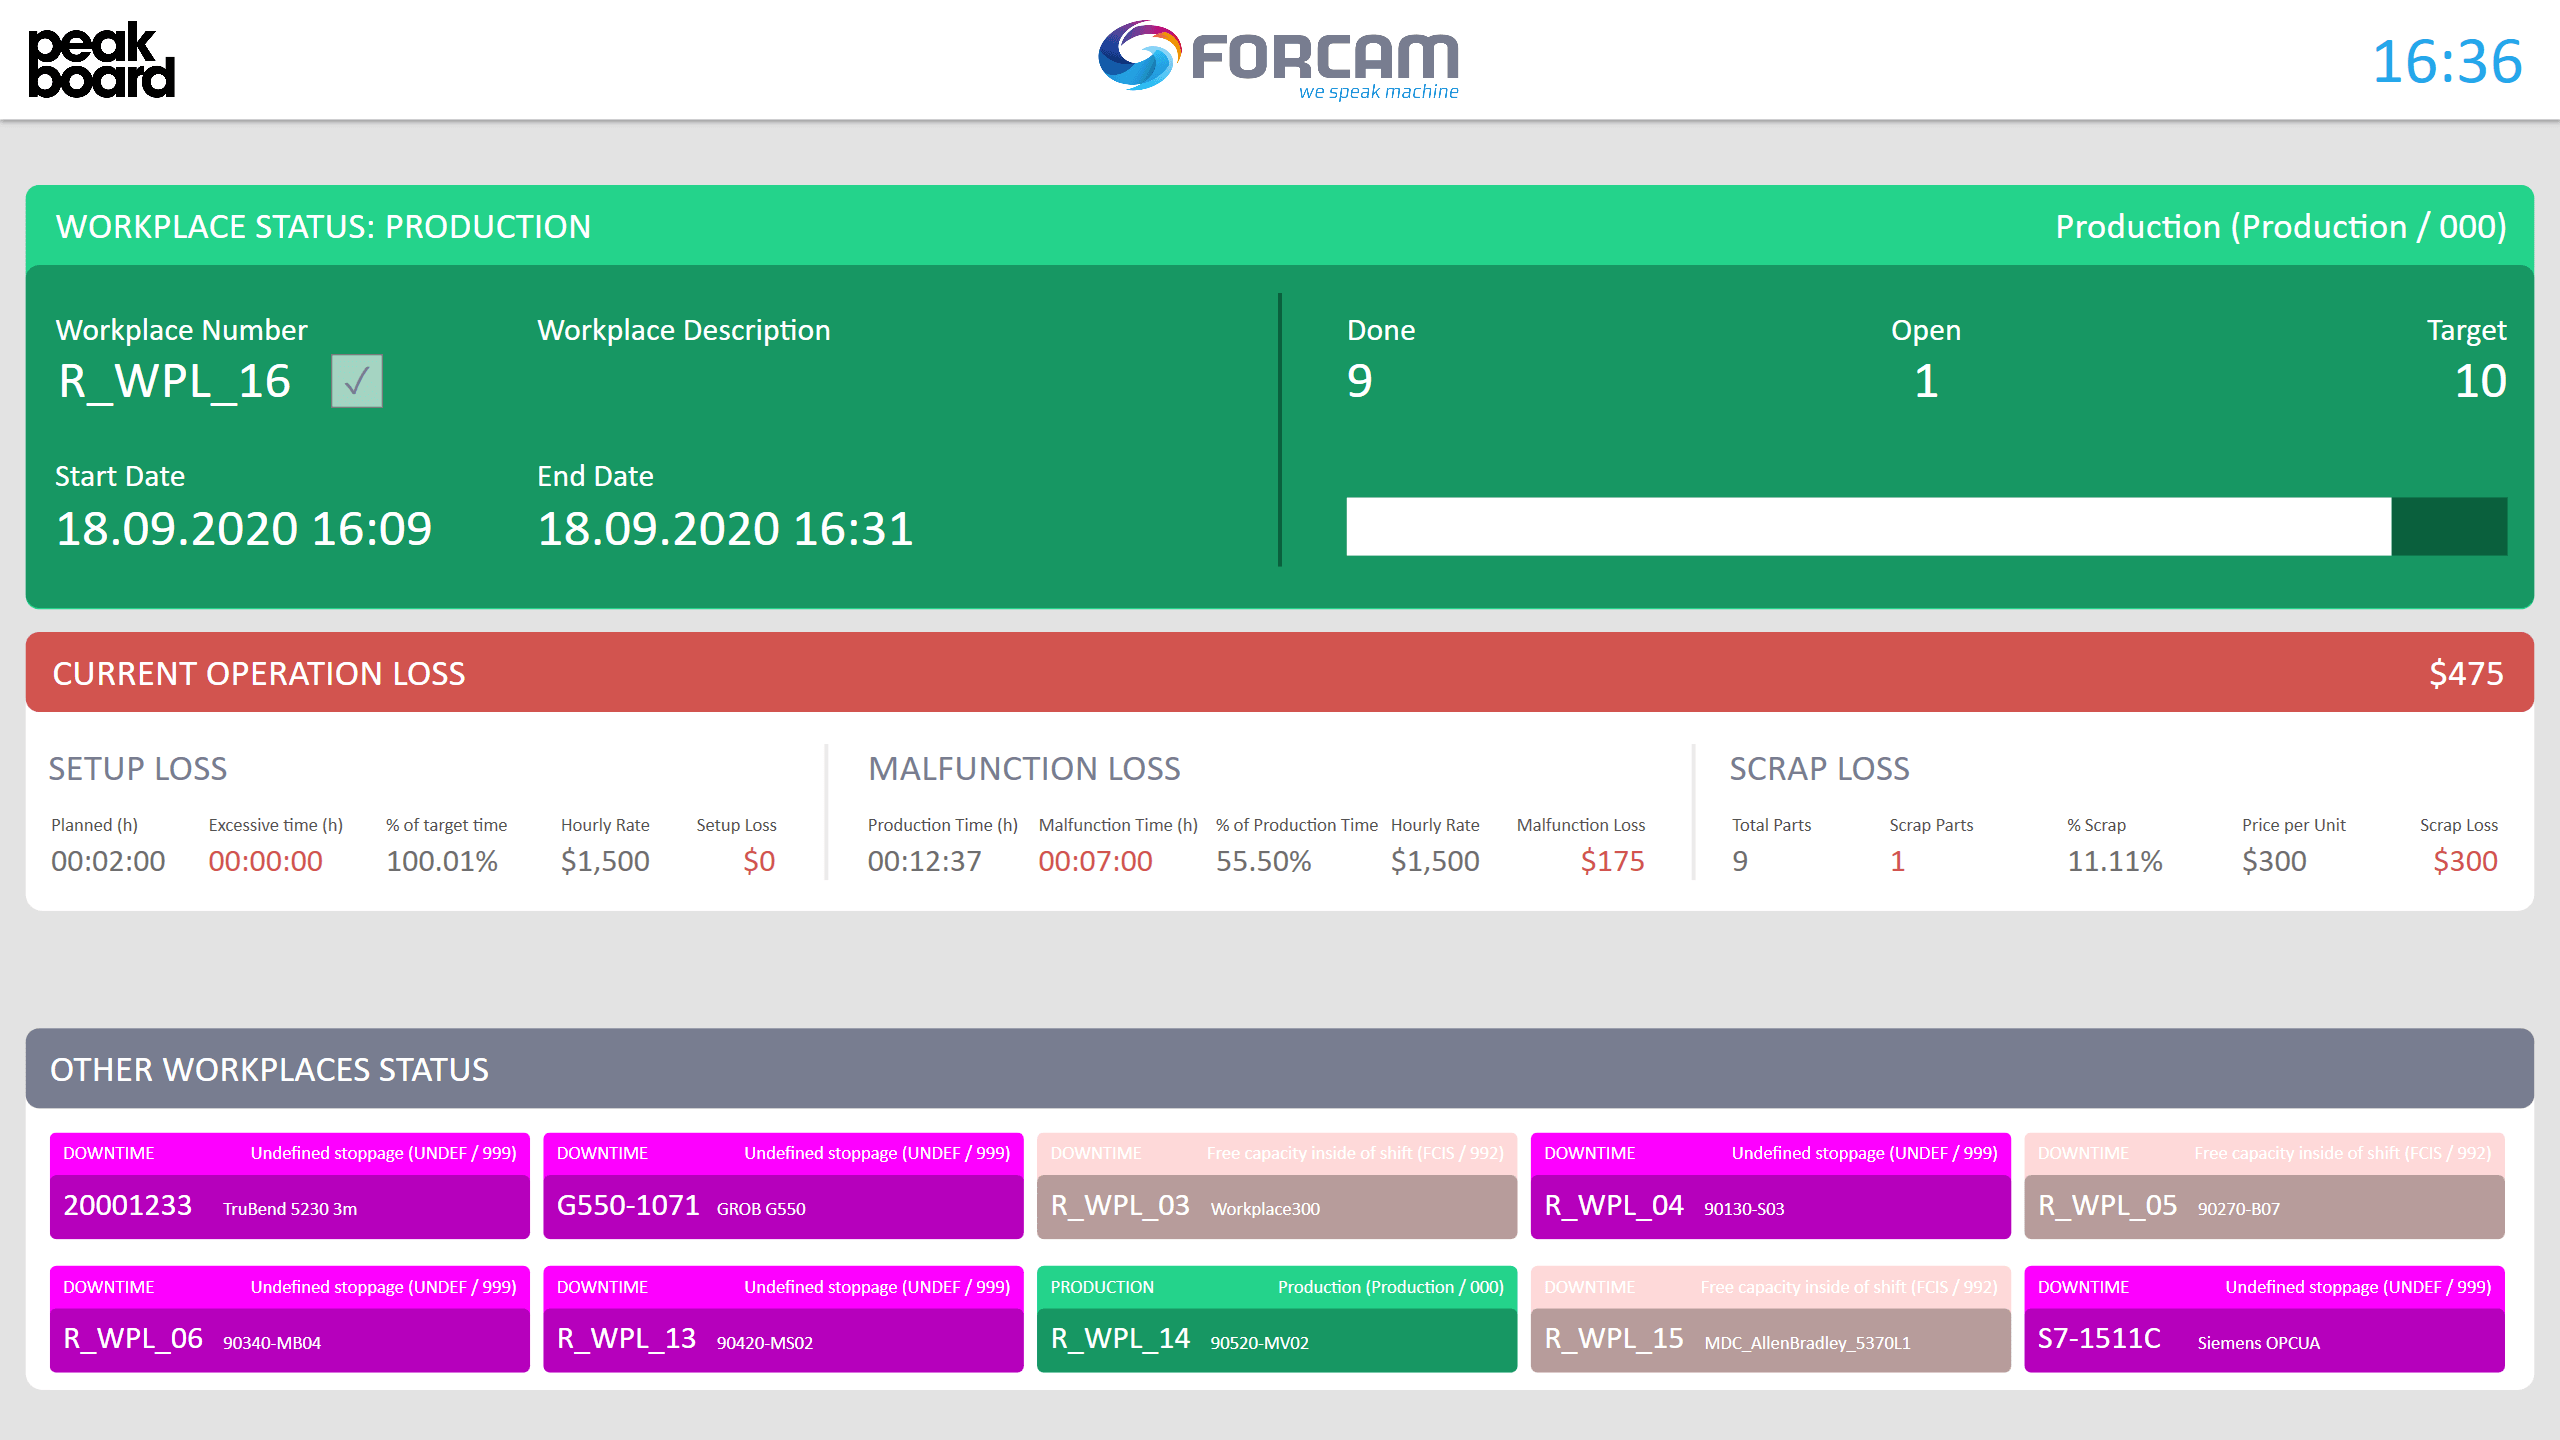
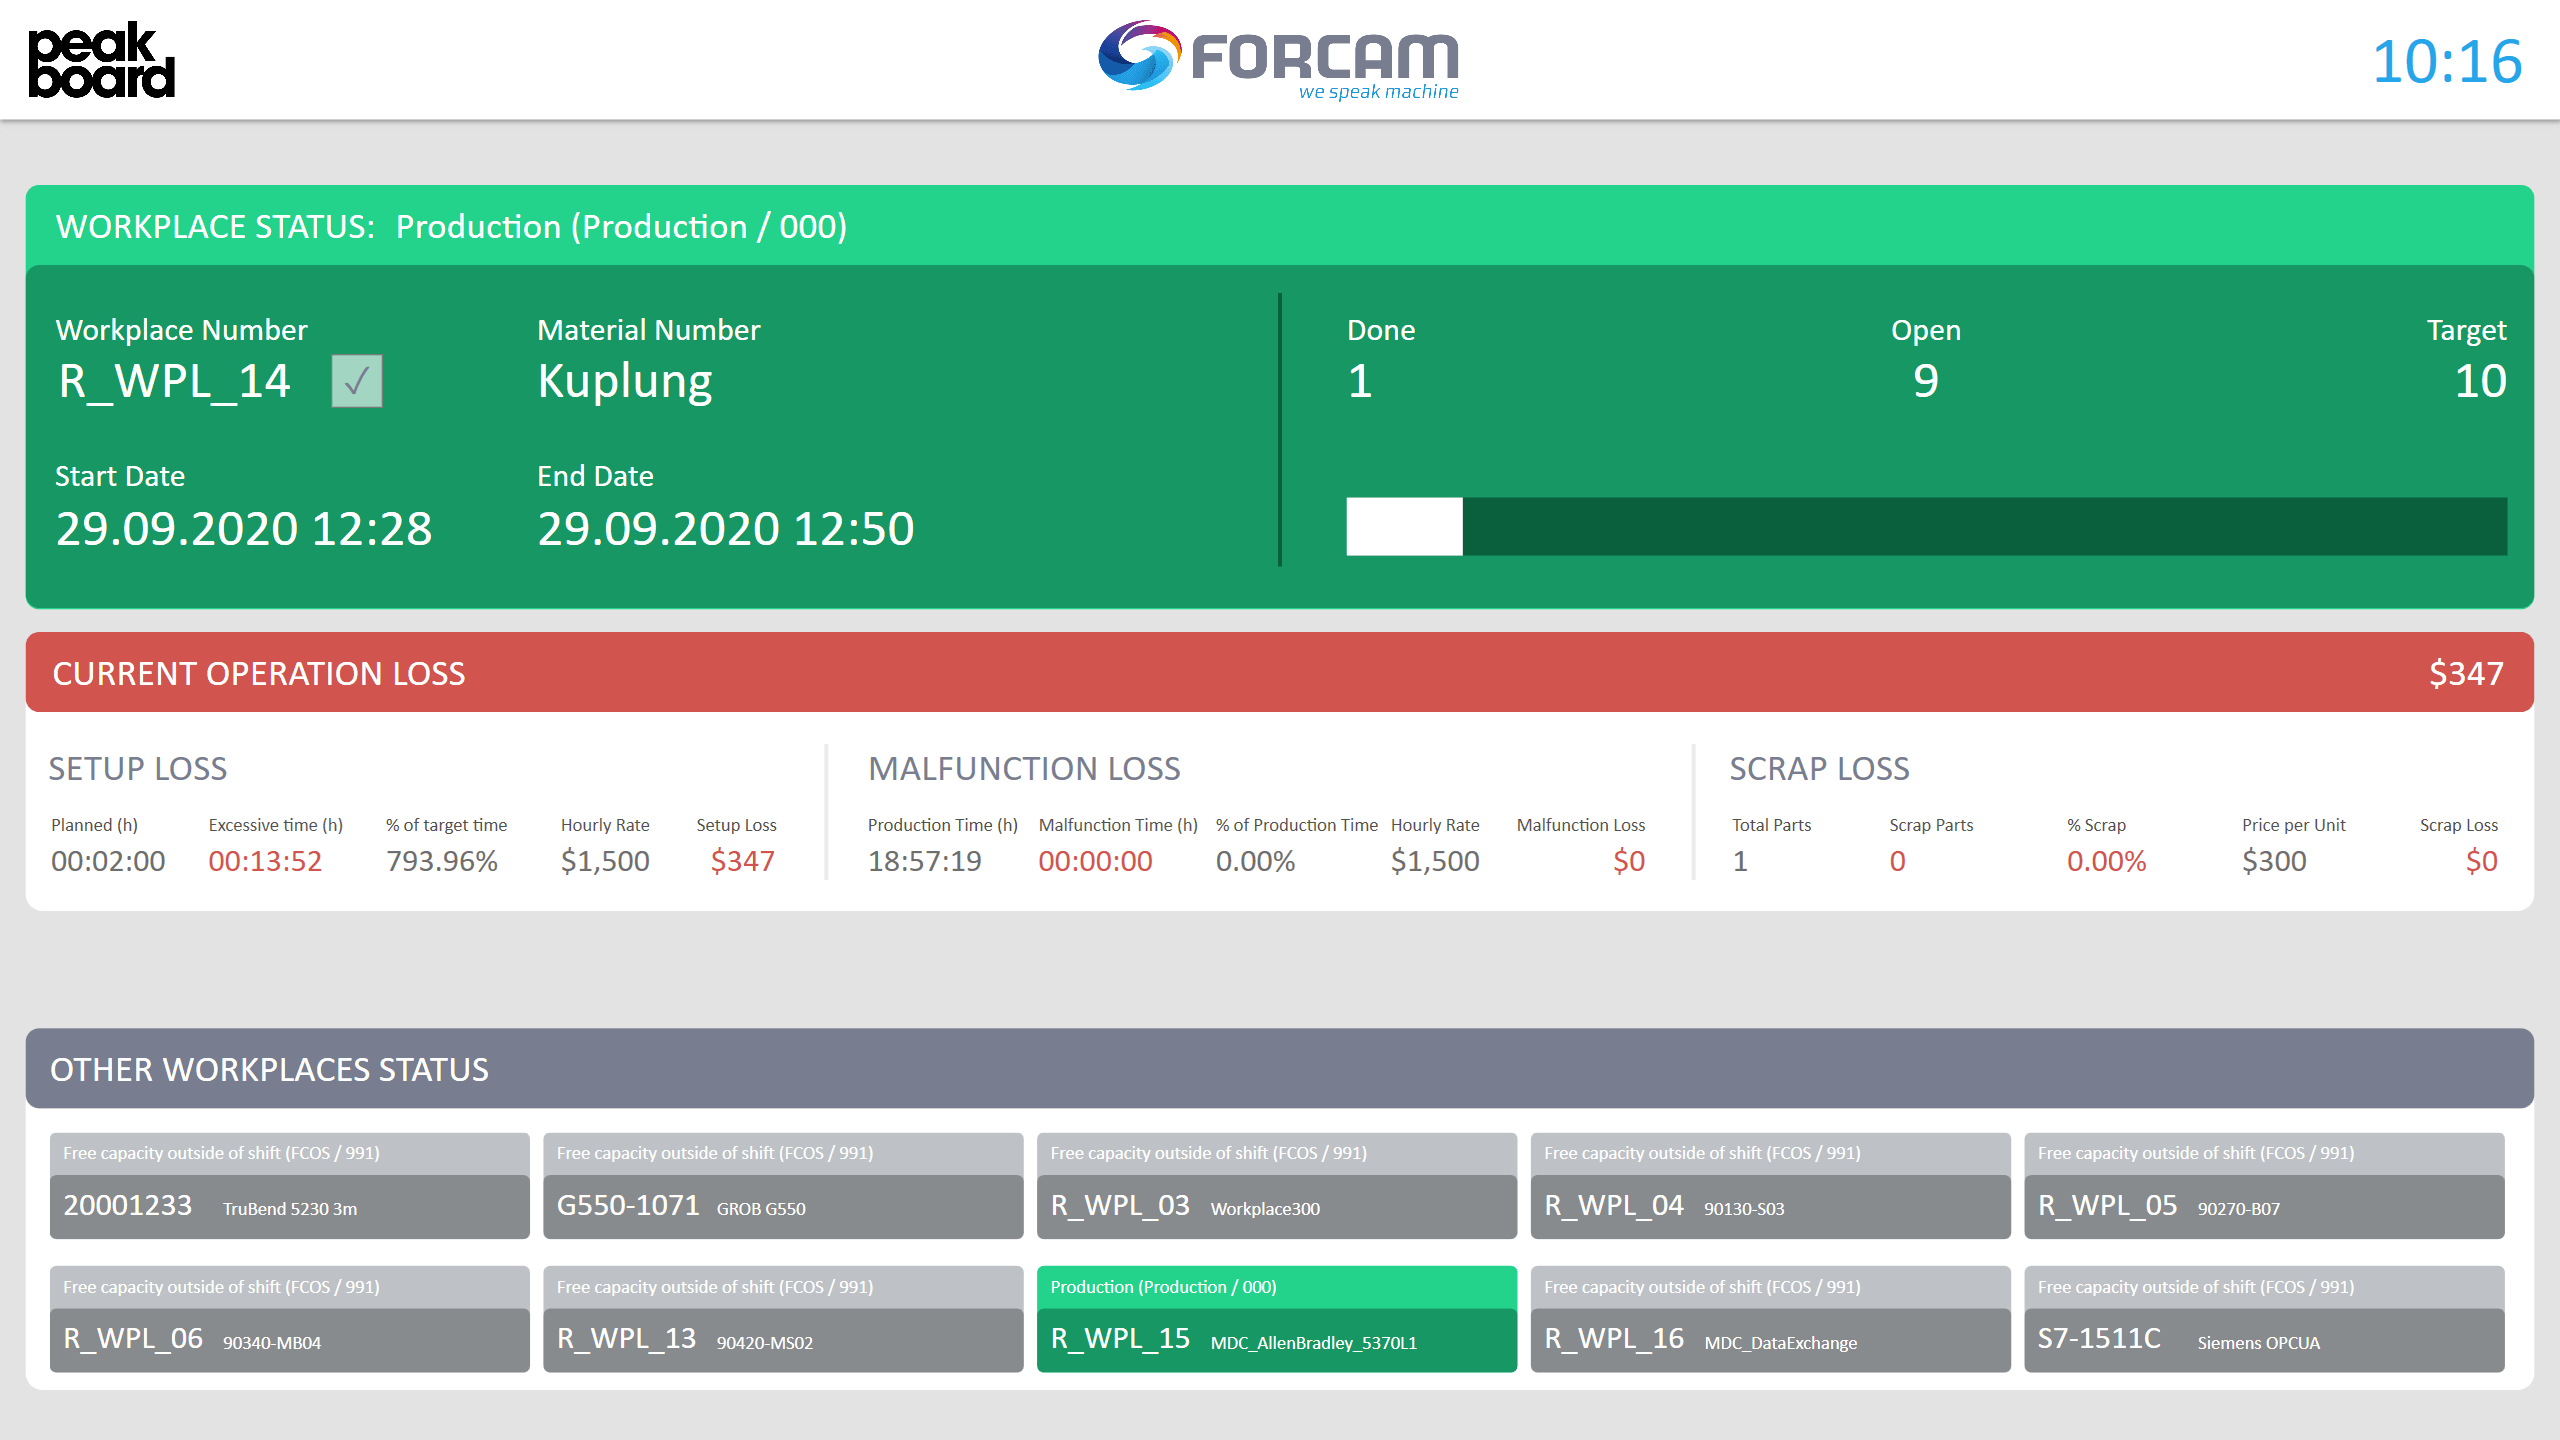
Updated images and updated descriptions

diff --git a/_templates/Forcam-Costs-Overview/index.md b/_templates/Forcam-Costs-Overview/index.md
@@ -31,3 +31,7 @@ Anschließend musst du die Authentifizierung anpassen. Gib jeweils deine URL an 
 Anschließend kannst du noch ein paar Parameter anpassen. Zum einen musst du angeben, welchen Workplace du anzeigen lassen willst und zum anderen musst du noch angeben was der Stundensatz deiner Maschine oder deines Workplaces ist und weiß ein einzelnes Teil kostet. Diese Werte könnten natürlich auch aus einem anderen System gezogen werden. Hier wird es mit einfachen Variablen simuliert.
 
 ![](img/forcam-workplace-and-prices.png)
+
+Mit Hilfe eines Touchscreens oder Maus und Tastatur kann die Workplace Number auf im laufenden Betrieb getauscht werden um so flexibel unterschiedliche Workplaces betrachten zu können. Einfach das Textfeld anklicken, die neue Workplace Number eintragen und anschließend auf den Button klicken zum bestätigen. Wenn du diese Funktion nicht benötigst, einfach den Button entfernen und aus dem Eingabefeld ein normales Textfeld machen.
+
+![](img/forcam-cost-overview-live-edit.png)

diff --git a/_templates/Forcam-Costs-Overview/en.md b/_templates/Forcam-Costs-Overview/en.md
@@ -31,3 +31,7 @@ Then you have to adjust the authentication. Enter your URL and your Client ID an
 Afterwards you can adjust a few parameters. First you have to specify which Workplace you want to display and secondly you have to specify what the hourly rate of your machine or Workplace is and how much a single part costs. These values could of course be taken from another system. Here it is simulated with simple variables.
 
 ![](img/forcam-workplace-and-prices.png)
+
+With the help of a touch screen or mouse and keyboard, the Workplace Number can be changed to during operation in order to flexibly view different workplaces. Simply click on the text field, enter the new Workplace Number and click on the button to confirm. If you don't need this function, just remove the button and turn the input field into a normal text field.
+
+![](img/forcam-cost-overview-live-edit.png)
